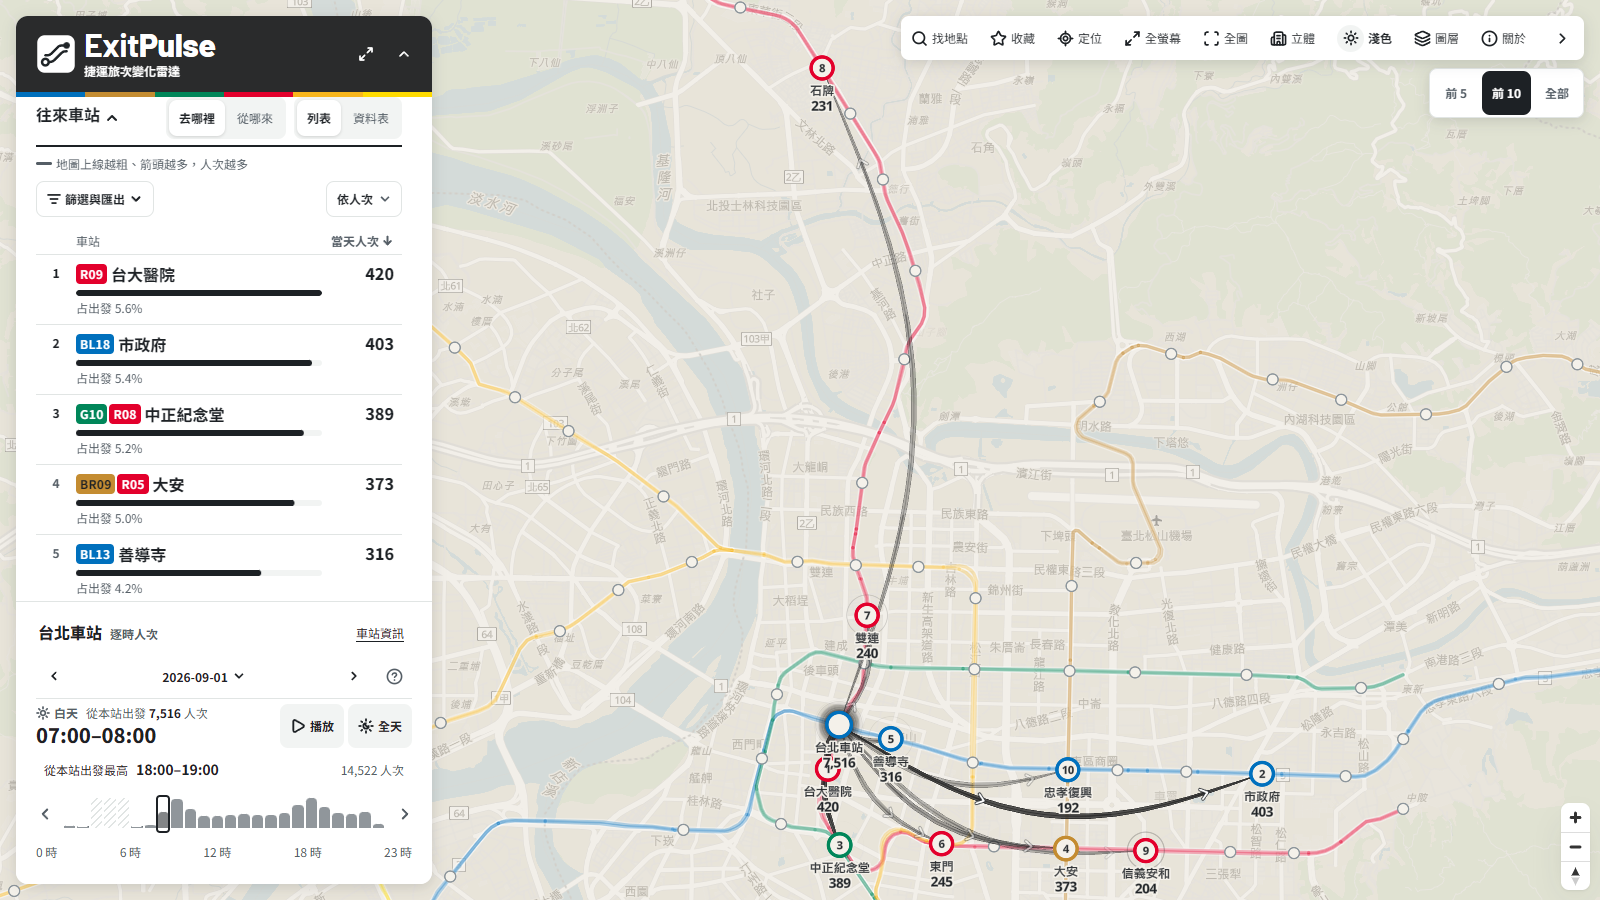
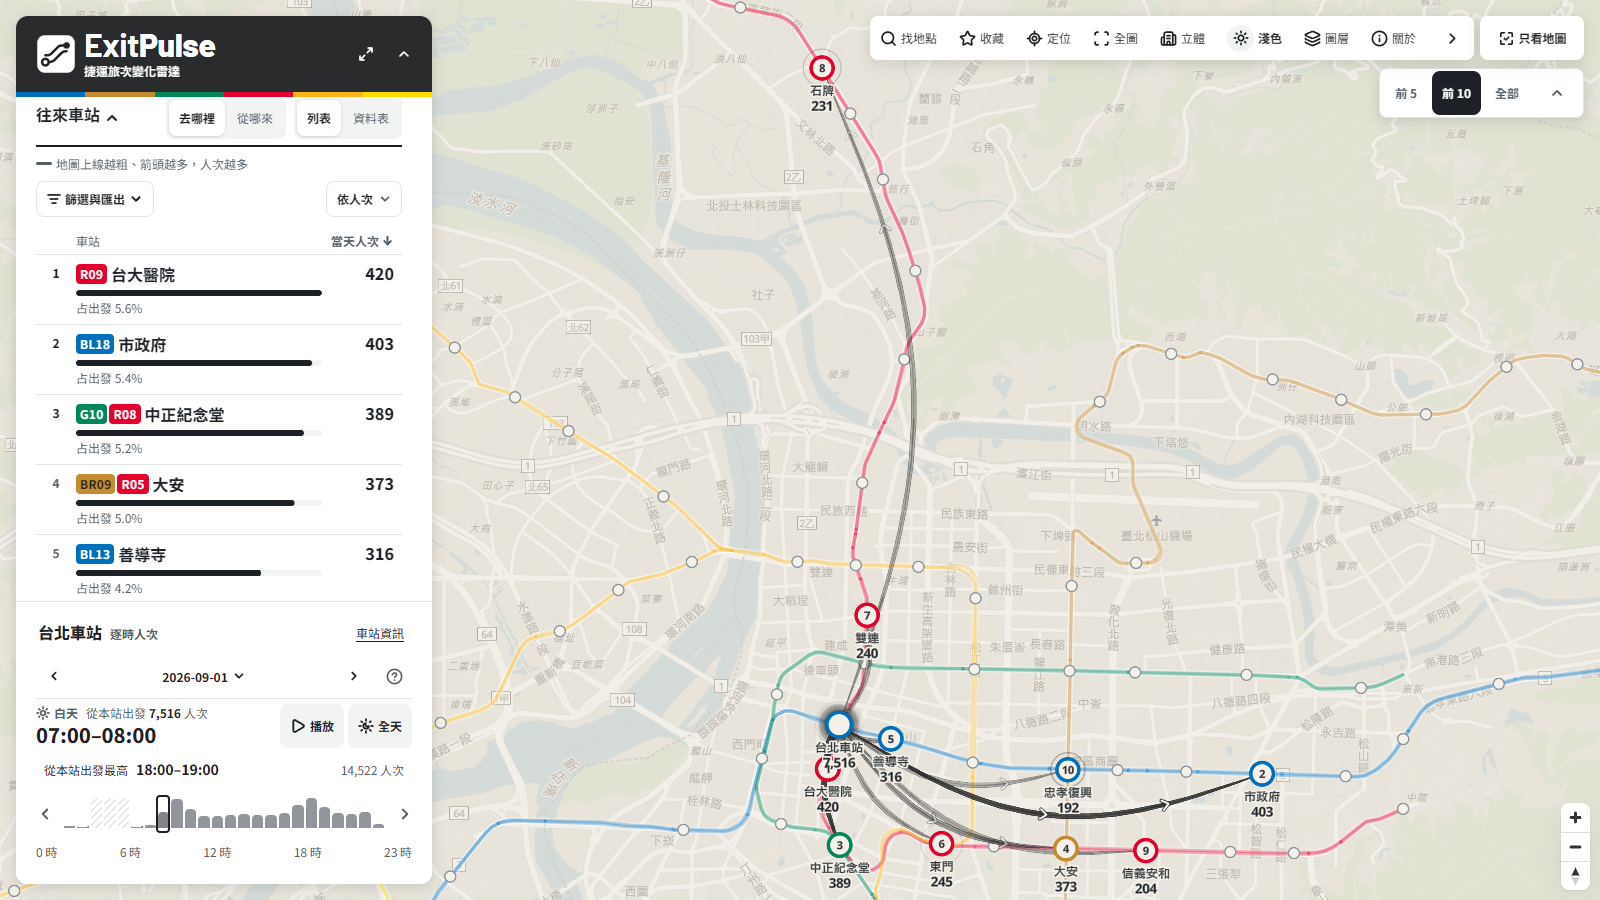
docs: README 與截圖同步手機版頂欄、只看地圖與工具列

Changed region(s): [[0.5312, 0.0, 1.0, 0.1556]]

diff --git a/README.md b/README.md
@@ -22,7 +22,7 @@
 
 ## 三種檢視與操作方式
 
-網站分為「兩站比較」、「單站往來」與「全線人次」三種模式。桌機版左邊看分析面板、右邊看地圖，展開面板開著明細時，畫面在 1100 px 以下也不會重疊。手機版底下有「地圖」、「分析」、「條件」三個分頁，橫放時會提示轉回直立，也可以安裝到手機主畫面使用。
+網站分為「兩站比較」、「單站往來」與「全線人次」三種模式。桌機版左邊看分析面板、右邊看地圖，展開面板開著明細時，畫面在 1100 px 以下也不會重疊。手機版在頂欄放置「地圖」、「分析」、「條件」與右側兩站／單站／全線選單，頂欄、工具列、底部摘要卡與時間軸等多數面板皆可摺疊以保留較大地圖視野，橫放時會提示轉回直立，也可以安裝到手機主畫面使用。
 
 | 檢視模式 | 看什麼 | 能做什麼 |
 | --- | --- | --- |
@@ -32,7 +32,7 @@
 
 ### 地圖操作與輔助功能
 
-- **地圖工具列、全螢幕與圖層開關**：右上角工具列可以收合，包含找地點（用 Photon 查 OpenStreetMap 地名並算附近捷運站直線距離）、收藏、定位、全螢幕（iPhone 瀏覽器無法隱藏網址列時，會提示從主畫面開啟）、全圖、3D 立體柱狀與弧線、深淺主題、圖層開關與「關於」。版面窄到只剩圖示時，滑鼠移上去或手指點一下會顯示說明。圖層可個別開關道路、自然與流動動畫，比例尺也加強了對比，手機版地圖則保留縮放與指北針按鈕。
+- **地圖工具列、全螢幕與圖層開關**：右上角工具列可以收合，並新增「只看地圖」一鍵收起浮層（再按一次或按 `Esc` 還原）。桌機版包含找地點（用 Photon 查 OpenStreetMap 地名並算附近捷運站直線距離）、收藏、定位、全螢幕（iPhone 瀏覽器無法隱藏網址列時，會提示從主畫面開啟）、全圖、3D 立體柱狀與弧線、深淺主題、圖層開關與「關於」，手機版則精簡為找地點、收藏與圖層（定位移進找地點，立體與深色模式移進圖層面板）。版面窄到只剩圖示時，有滑鼠的裝置移上去會顯示說明。圖層可個別開關道路、自然與流動動畫，比例尺也加強了對比，手機版地圖則保留縮放與指北針按鈕。
 - **時間軸與日夜底圖**：時間軸固定在面板底部，拖到沒有紀錄的小時也不會跟著移位。長條兩側加了前一小時、後一小時按鈕，拉桿有看得見的把手，播放、暫停、全天三顆按鈕換成同一套線條圖示，暫停後暫停鈕會反白。播放時會依日期估算臺北日出日落時間自動切換底圖明暗。
 - **車站詳情與出口沿革**：點選任一車站可檢視站碼、首次通車日、中文維基百科站區簡介、6 公里生活圈現住人口、雙北 YouBike 2.0 站點、周邊商場／大學／醫院／客運轉運站與景點距離，以及出入口清單。展開出口可於地圖標出圖釘，查得官方公告者附上啟用與重開日期，其餘標示為「現況座標，年代待查」。指標旁附帶 `?` 說明浮窗，點擊即可查看定義。原始資料出處：[車站資料服務](https://data.taipei/dataset/detail?id=1eefa68d-7c8d-491b-8e75-66a161947426)、[出口座標](https://data.taipei/dataset/detail?id=cfa4778c-62c1-497b-b704-756231de348b)、[設施資訊](https://data.gov.tw/dataset/128453)、[觀光署景點](https://data.gov.tw/dataset/7777)。
 - **資料判讀、空狀態與中文斷行**：結論句把期間獨立成上一行，假日只列名稱（例如「中秋節、教師節」），並一併列出人次、有效天數與實際有紀錄的時段（`recordedHours`），分開標示零人次、出站資料不足、尚未通車與查詢失敗。選到車站尚未通車的月份時，面板會顯示該站通車日期，並提供一鍵跳轉至最早有紀錄的月份。沒有旅次紀錄或查無車站時，改成置中的圖示加一句說明。全站中文只在標點或空白處換行，數字和單位不拆開，「台北101/世貿」這類站名也不會斷在斜線後。
@@ -61,7 +61,7 @@
 
 | 手機：站對清單 | 手機：站對詳情 |
 | --- | --- |
-| ![手機深色：站對排行清單與底部三頁導覽](docs/images/mobile-list-dark.png) | ![手機深色：站對詳情與歷年走勢](docs/images/mobile-detail-dark.png) |
+| ![手機深色：頂欄分頁切換與站對排行清單](docs/images/mobile-list-dark.png) | ![手機深色：站對詳情與歷年走勢](docs/images/mobile-detail-dark.png) |
 
 ## 快速開始
 
